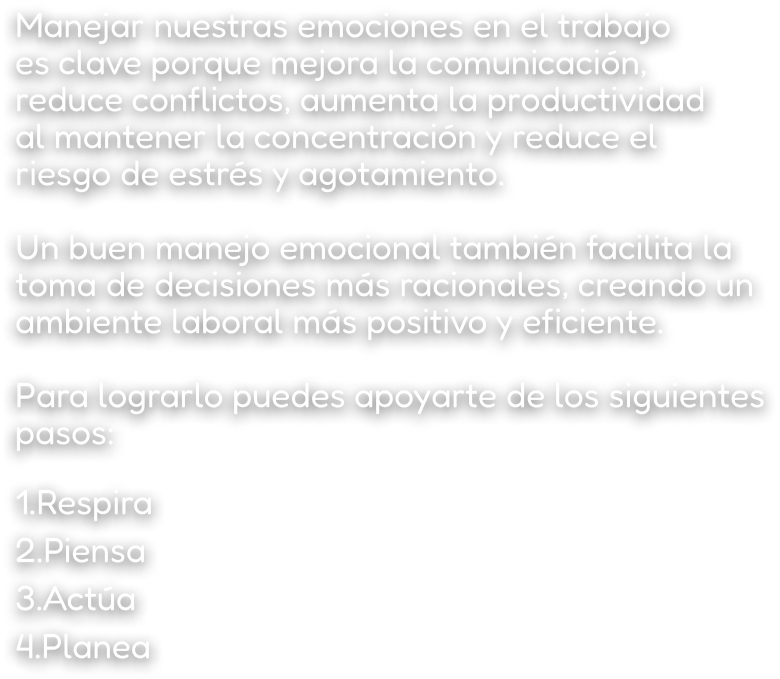
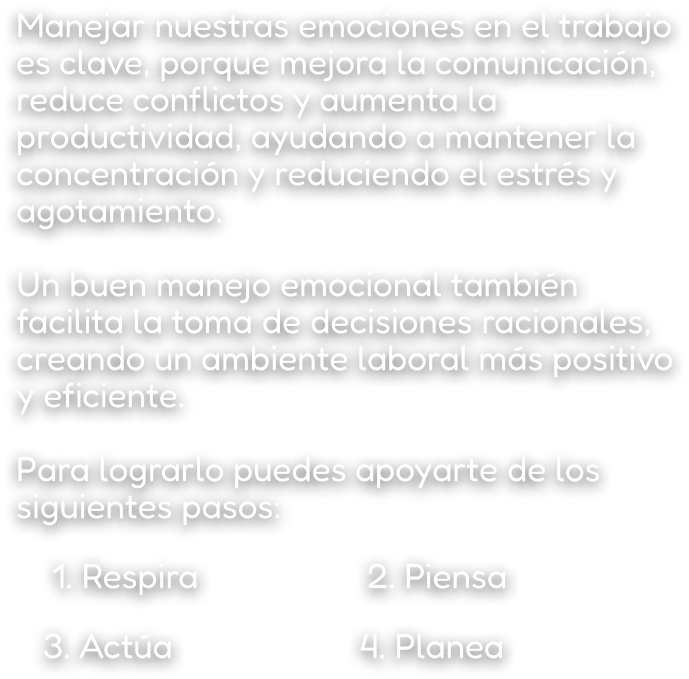
Folio 38

Changed region(s): [[0.0, 0.0, 0.9753, 0.9897], [0.5181, 0.8351, 0.762, 0.8969], [0.5181, 0.9278, 0.7315, 0.9897]]

diff --git a/assets/css/module-3.css b/assets/css/module-3.css
@@ -534,10 +534,10 @@
 }
 
 #slideM3-8-txt {
-  width: 36%;
+  width: 32%;
   height: auto;
-  left: 6%;
-  top: 24%;
+  left: 5%;
+  top: 28%;
 }
 
 #slideM3-8-ints {
